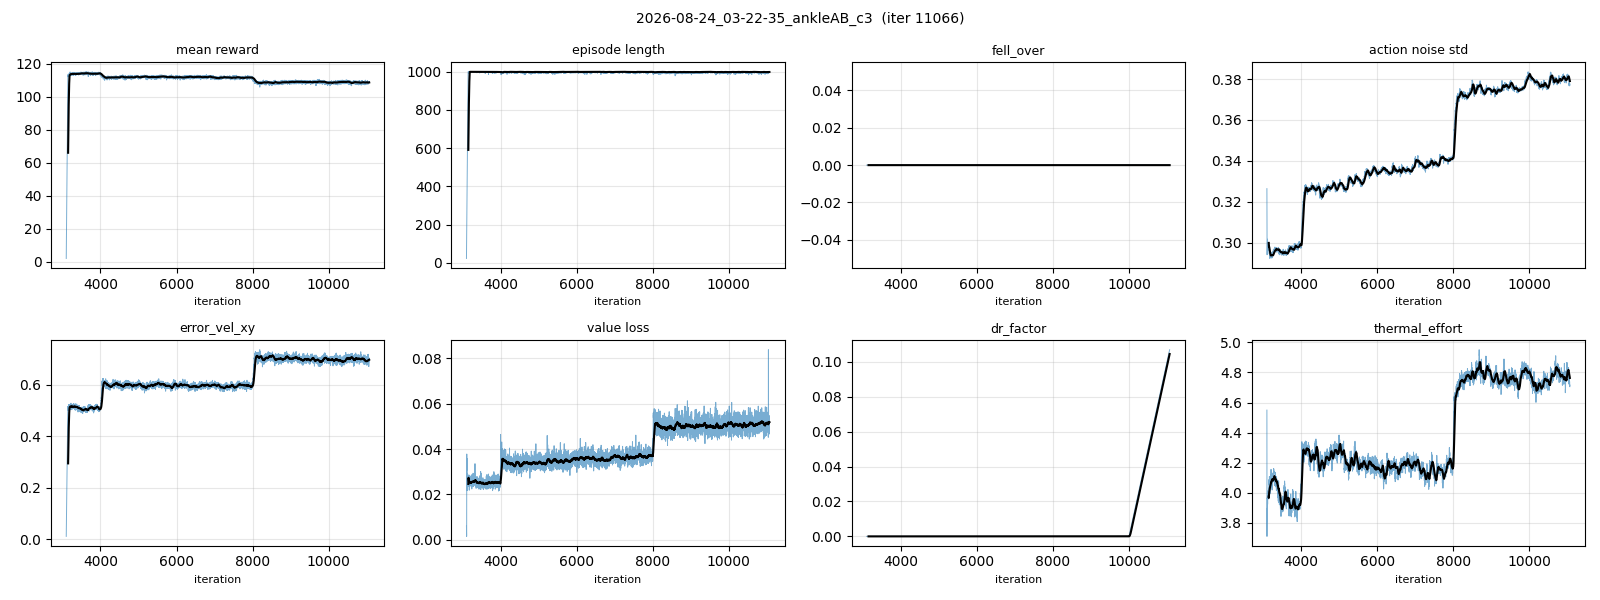
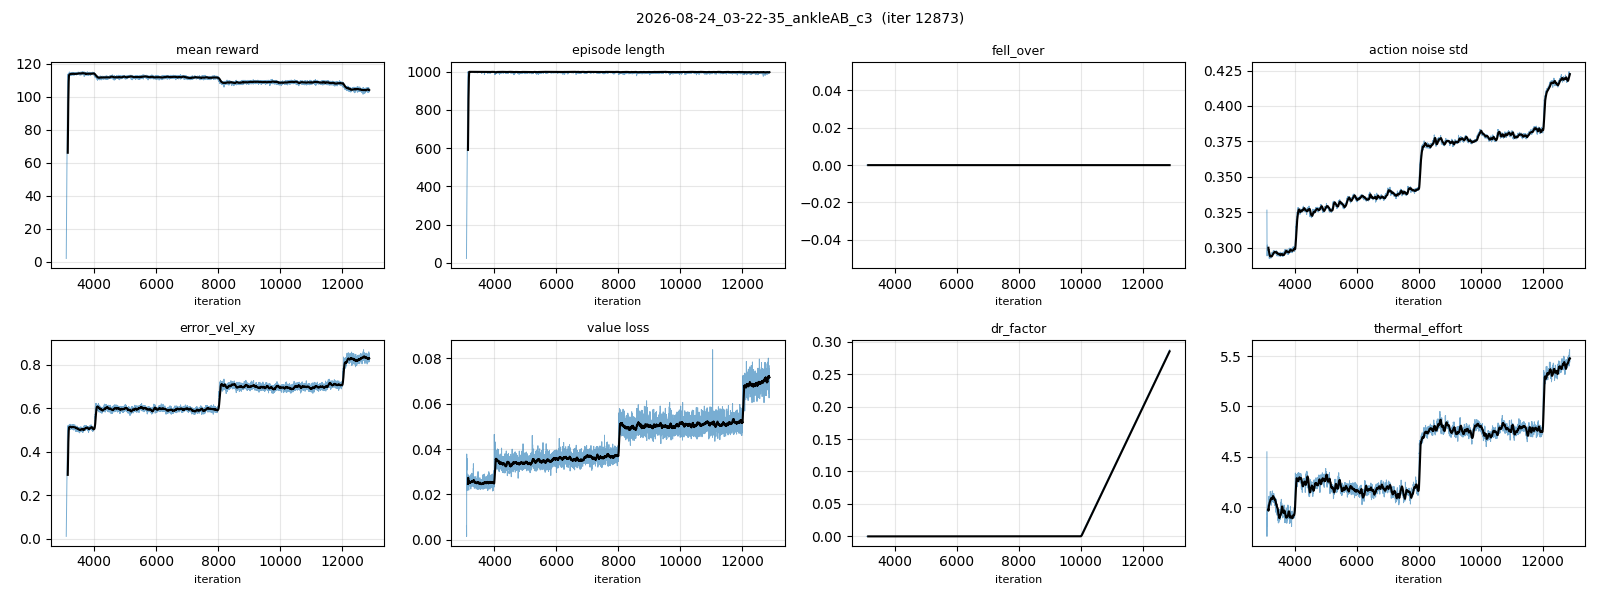
registry: 12k gate results and the evaluator-based gate switch

diff --git a/docs/66_experiment_registry.md b/docs/66_experiment_registry.md
@@ -114,7 +114,7 @@
 |---|---|---|---|
 | ~~ankleAB_c1 / ankleRP_c1~~ (`20-45-09/27`, ✗ iter 172 중단) | 팔이 영점(매달림)으로 weld → hip_roll 링크와 14 mm 관통 | — | ✗ 상체 팔 15° 외전 고정 후 c2로 재시작 |
 | (config-test) ankleAB_softtest / softtest2 [[2026-08-24_ankleAB_softtest]] [[2026-08-24_ankleAB_softtest2]] (02:00 / 02:43, c2r 3100+800 iter, 1024 env) | soft-landing 항 형태: 선형 w −2 vs 제곱 w −1 | 접지속도 1.24 → **2.42**(선형, 해킹) / **0.98**(제곱) m/s; 피크 1.50 → 1.66 / 1.31 BW | 선형 기각·제곱 채택 → c3 |
-| **ankleAB_c3 / ankleRP_c3** "flat-2.5max gen21-bundle+**soft-landing** curriculum-dr+push ankle-AB / -RP (2026-08-24)" (`03-22-35` / `03-22-58`, 🔄학습중 12.5k/32k, ETA 08-25 18:40) [[2026-08-24_ankleAB_c3]] [[2026-08-24_ankleRP_c3]] | c2 + `PYG_SOFT_LANDING` (foot_impact_velocity Σrelu(−v_z)²·[h<0.10∧공중] w −1, contact_force_cap 420/560 N) — 두 arm 동일, 3100까지 이력 동일 | 시험(AB 3100+800, 1024env): 접지속도 1.24→0.98 m/s, GRF 피크 1.50→1.31 BW, 추종 유지, 스윙높이 0.116→0.080 m(감시) | 🔄 4k(vx1.2): AB 0.90 m/s·1.00 BW / RP 1.14·1.22 · 8k(vx1.6): **RP가 더 부드러움** 0.85·1.03 vs AB 0.93·1.23, 접지 p90 1.96 꼬리, ⚠AB 정지 제자리걸음(발움직임 0.115 m/s·duty 0.87→12k 재확인). 스윙 0.112/0.082 m > 역치 → w −1 유지. 1:1 영상·그림 [[93_ankle_ab_rp_comparison_plan]] §5c. ★err_vel 0.69는 지표 아티팩트(=평균 0.276×2.5, [[96_tracking_error_bottleneck]]) — 정상상태 AB 0.17/RP 0.24, RP ankle_pitch T-N 82%. 항별추세 [[97_c3_reward_trend_review]]: 커리큘럼 적응 <20 iter(간격 4000 과잉)·σ 0.30→0.38 어닐링 없음·torque_limit weight 0(RP 발목 T-N 82% 포화)·slip 2배 드리프트. 차기 세대 계획 [[98_scratch_training_plan]](게이트형 커리큘럼·entropy 어닐링·T-N 토크항·2시드). 선형형은 해킹(2.42 m/s)으로 기각 — [[95_soft_landing_prescription]] |
+| **ankleAB_c3 / ankleRP_c3** "flat-2.5max gen21-bundle+**soft-landing** curriculum-dr+push ankle-AB / -RP (2026-08-24)" (`03-22-35` / `03-22-58`, 🔄학습중 12.9k/32k, vx2.0·DR0.29, ETA 08-25 18:40) [[2026-08-24_ankleAB_c3]] [[2026-08-24_ankleRP_c3]] | c2 + `PYG_SOFT_LANDING` (foot_impact_velocity Σrelu(−v_z)²·[h<0.10∧공중] w −1, contact_force_cap 420/560 N) — 두 arm 동일, 3100까지 이력 동일 | 시험(AB 3100+800, 1024env): 접지속도 1.24→0.98 m/s, GRF 피크 1.50→1.31 BW, 추종 유지, 스윙높이 0.116→0.080 m(감시) | 🔄 4k(vx1.2): AB 0.90 m/s·1.00 BW / RP 1.14·1.22 · 8k(vx1.6): **RP가 더 부드러움** 0.85·1.03 vs AB 0.93·1.23, 접지 p90 1.96 꼬리, ⚠AB 정지 제자리걸음(발움직임 0.115 m/s·duty 0.87→12k 재확인). 스윙 0.112/0.082 m > 역치 → w −1 유지. 1:1 영상·그림 [[93_ankle_ab_rp_comparison_plan]] §5c. ★err_vel 0.69는 지표 아티팩트(=평균 0.276×2.5, [[96_tracking_error_bottleneck]]) — 정상상태 AB 0.17/RP 0.24, RP ankle_pitch T-N 82%. 항별추세 [[97_c3_reward_trend_review]]: 커리큘럼 적응 <20 iter(간격 4000 과잉)·σ 0.30→0.38 어닐링 없음·torque_limit weight 0(RP 발목 T-N 82% 포화)·slip 2배 드리프트. 12k: AB 정지 제자리걸음 해소(0.005)·RP 더 부드러움(1.02BW/53BW·s⁻¹); **평가기 96ep 성공률 100%·추종 0.10–0.14**(단일롤아웃 프로브는 게이트 부적격 §95 §7b). 차기 세대 계획 [[98_scratch_training_plan]](게이트형 커리큘럼·entropy 어닐링·T-N 토크항·2시드). 선형형은 해킹(2.42 m/s)으로 기각 — [[95_soft_landing_prescription]] |
 | **ankleAB_c2 → c2r** "flat-2.5max gen21-bundle curriculum-dr+push ankle-AB-loop (2026-08-23)" (`21-02-10` → OOM iter1252 → `23-17-35_ankleAB_c2r` resume model_1200, ⏸ iter 4400에서 중단 → c3로 계승) [[2026-08-23_ankleAB_c2]] | vs gen21_bent_p2: 프린트 질량·실측 모터(RS04 J .0163/b .0095/tc .269, RS03 .0153/.0223/.285)·T-N 곡선·**폐루프 발목(크랭크 RS03 ×2, Kp 22.3/Kd 1.41/60 N·m)**·단일 런 커리큘럼(DR 10k→20k, vx 단계 2.5@16k)·16384 env·상체 weld+팔 15° 외전 고정·hip_yaw ±45° | iter 610: reward 109·fell 0; iter 1200 분석(93 §5b): 보행 발목 17° 사용·토크 12.8 N·m·GRFc 1.39 BW, **정지 잔떨림+0.4 Hz 스웨이**; 최신 스냅샷 iter 2659(08-24 01:22): reward 114.1(50avg 114.4)·fell 0.000·err_vel_xy 0.509·thermal 4.02 | 🔄 CONTINUE (4k 게이트서 정지 떨림 재확인) |
 | (분석) 폐루프 구속 강성 solimp 전례·변인통제 [[94_loop_constraint_stiffness]] (2026-08-24) | 같은 AB 정책, 구속만 0.9→0.9999 5단계 | 튐 |Δτ| p99: 기본 18.0 / 0.99–0.9999 11–12 N·m, 폐루프 오차 8.4→0.08 mm | 0.999 유지; 학습 A/B(0.95/0.99·solref 5 ms, BRUCE 데드밴드)는 본런 후 |
 | **ankleRP_c2** "flat-2.5max gen21-bundle curriculum-dr+push ankle-RP-serial (2026-08-23)" (`2026-08-23_21-02-18`, ⏸ iter 3400에서 중단 → c3로 계승) [[2026-08-23_ankleRP_c2]] | ankleAB_c2와 **단일변인 = 발목 기구**: 직렬 pitch/roll(Kp 28.5/Kd 1.81) + 루프 자코비안 크랭크공간 클램프(±60, T-N) + 반영 관성/마찰. env.yaml diff = 발목 항목만(launch 직후 확인) | iter 610: reward 113·fell 0; iter 1200 분석: 발목 10° 사용·**bang-bang 목표(−40↔+35°) PD 포화 토크 스파이크**·GRFc 1.51 BW; 최신 스냅샷 iter 3433(08-24 02:22): reward 113.5(50avg 113.8)·fell 0.000·err_vel_xy 0.509·thermal 3.56 | 🔄 CONTINUE |

diff --git a/docs/experiments/2026-08-24_ankleAB_c3.md b/docs/experiments/2026-08-24_ankleAB_c3.md
@@ -36,3 +36,5 @@
 | 08-24 15:29 | 11769 | 108.5 (50avg 108.2) | 1000 | 0.384 | 0.0554 | 4.47 | -0.0059 / 5.8e-04 | 0.000 / 0.042 | 0.702 / 0.542 | 0.18 / 1.6 | 4.78 | (자동 스냅샷, 판정은 게이트 리뷰에서) |
 
 > 리워드 항별 추세·PPO 건강도·커리큘럼/DR 적절성 분석: [[97_c3_reward_trend_review]] (iter 11.7k 기준)
+| 08-24 16:29 | 12484 | 104.6 (50avg 104.8) | 991 | 0.414 | 0.0671 | 5.44 | -0.0054 / 5.8e-04 | 0.000 / 0.167 | 0.820 / 0.588 | 0.25 / 2.0 | 5.40 | (자동 스냅샷, 판정은 게이트 리뷰에서) |
+| 08-24 17:03 | 12873 | 103.8 (50avg 104.2) | 1000 | 0.422 | 0.0752 | 5.64 | -0.0049 / 5.8e-04 | 0.000 / 0.000 | 0.841 / 0.596 | 0.29 / 2.0 | 5.48 | 12k 게이트(vx2.0·DR0.25): 정지 제자리걸음 해소(0.115→0.005 m/s), 접지 0.97·피크 1.16 BW. 내장 평가기 96 에피소드 성공률 100%·추종 0.102(전진)/0.144(측면) → CONTINUE |

diff --git a/docs/experiments/2026-08-24_ankleRP_c3.md b/docs/experiments/2026-08-24_ankleRP_c3.md
@@ -36,3 +36,5 @@
 | 08-24 15:29 | 11764 | 107.6 (50avg 107.3) | 1000 | 0.390 | 0.0545 | 4.75 | -0.0059 / 5.8e-04 | 0.000 / 0.000 | 0.740 / 0.551 | 0.18 / 1.6 | 4.14 | (자동 스냅샷, 판정은 게이트 리뷰에서) |
 
 > 리워드 항별 추세·PPO 건강도·커리큘럼/DR 적절성 분석: [[97_c3_reward_trend_review]] (iter 11.7k 기준)
+| 08-24 16:29 | 12478 | 103.0 (50avg 103.8) | 1000 | 0.419 | 0.068 | 5.69 | -0.0063 / 5.8e-04 | 0.000 / 0.042 | 0.840 / 0.592 | 0.25 / 2.0 | 4.59 | (자동 스냅샷, 판정은 게이트 리뷰에서) |
+| 08-24 17:03 | 12866 | 102.5 (50avg 102.9) | 994 | 0.425 | 0.0682 | 5.87 | -0.0071 / 5.8e-04 | 0.000 / 0.042 | 0.862 / 0.606 | 0.29 / 2.0 | 4.61 | 12k 게이트: 피크 1.02 BW·하중률 53(AB보다 부드러움). hack_check 스윙 0.039는 프로브 아티팩트(재측정 0.052, 평가기 stall 0) → 재시작 안 함, CONTINUE |
